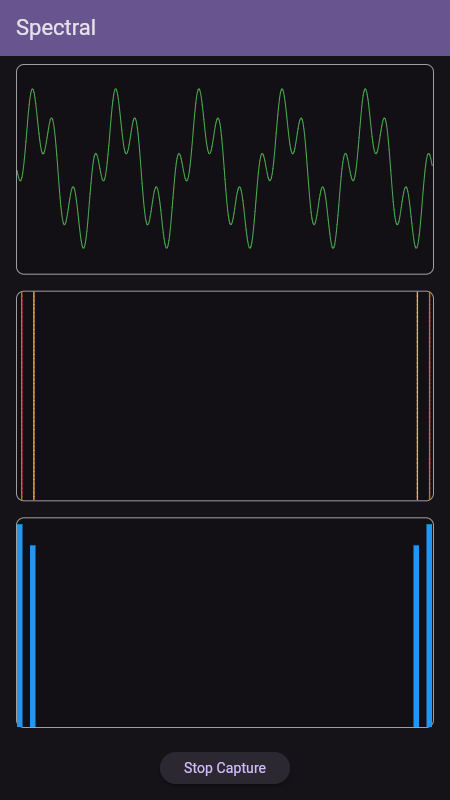
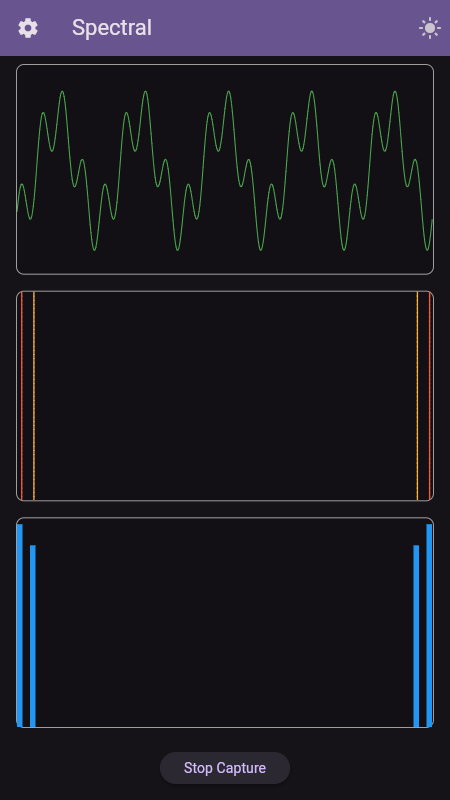
Complete Phase 2 MVP features: Waterfall, Themes, and Range Control
- Implement Waterfall spectrogram visualization.
- Add dynamic Light/Dark theme switching.
- Implement Gain and Sensitivity controls in a settings drawer.
- Improve LocalizationHelper for better widget testing.
- Update roadmap and documentation screenshots.
- Fix and expand widget tests.

Changed region(s): [[0.0311, 0.0938, 0.9644, 0.3125], [0.0311, 0.0, 0.3422, 0.0625], [0.9333, 0.0312, 0.9644, 0.0625]]

diff --git a/lib/main.dart b/lib/main.dart
@@ -15,8 +15,21 @@ void main() async {
   runApp(const SpectralApp());
 }
 
-class SpectralApp extends StatelessWidget {
+class SpectralApp extends StatefulWidget {
   const SpectralApp({super.key});
+
+  @override
+  State<SpectralApp> createState() => _SpectralAppState();
+}
+
+class _SpectralAppState extends State<SpectralApp> {
+  ThemeMode _themeMode = ThemeMode.dark;
+
+  void _toggleTheme() {
+    setState(() {
+      _themeMode = _themeMode == ThemeMode.dark ? ThemeMode.light : ThemeMode.dark;
+    });
+  }
 
   @override
   Widget build(BuildContext context) {
@@ -25,17 +38,32 @@ class SpectralApp extends StatelessWidget {
       theme: ThemeData(
         colorScheme: ColorScheme.fromSeed(
           seedColor: Colors.deepPurple,
+          brightness: Brightness.light,
+        ),
+        useMaterial3: true,
+      ),
+      darkTheme: ThemeData(
+        colorScheme: ColorScheme.fromSeed(
+          seedColor: Colors.deepPurple,
           brightness: Brightness.dark,
         ),
         useMaterial3: true,
       ),
-      home: const SpectralHomePage(),
+      themeMode: _themeMode,
+      home: SpectralHomePage(onToggleTheme: _toggleTheme, themeMode: _themeMode),
     );
   }
 }
 
 class SpectralHomePage extends StatefulWidget {
-  const SpectralHomePage({super.key});
+  final VoidCallback onToggleTheme;
+  final ThemeMode themeMode;
+
+  const SpectralHomePage({
+    super.key,
+    required this.onToggleTheme,
+    required this.themeMode,
+  });
 
   @override
   State<SpectralHomePage> createState() => _SpectralHomePageState();
@@ -53,6 +81,9 @@ class _SpectralHomePageState extends State<SpectralHomePage> {
   bool _isDemoMode = false;
   Timer? _demoTimer;
 
+  double _gain = 1.0;
+  double _sensitivity = 1.0;
+
   @override
   void initState() {
     super.initState();
@@ -64,11 +95,15 @@ class _SpectralHomePageState extends State<SpectralHomePage> {
     _audioSubscription = _audioService.audioDataStream.listen((data) {
       if (mounted) {
         setState(() {
-          _currentAudioData = data;
+          // Apply gain to audio data
+          _currentAudioData = Float64List.fromList(data.map((x) => x * _gain).toList());
+
           final fft = _fftService.processAudioData(data);
-          _currentFftData = fft;
-          if (fft.isNotEmpty) {
-            _fftHistory.insert(0, fft);
+          // Apply sensitivity to FFT data
+          final adjustedFft = fft.map((x) => x * _sensitivity).toList();
+          _currentFftData = adjustedFft;
+          if (adjustedFft.isNotEmpty) {
+            _fftHistory.insert(0, adjustedFft);
             if (_fftHistory.length > _maxHistory) {
               _fftHistory.removeLast();
             }
@@ -85,16 +120,17 @@ class _SpectralHomePageState extends State<SpectralHomePage> {
       final phase = DateTime.now().millisecondsSinceEpoch / 1000.0 * 2 * math.pi;
       for (var i = 0; i < 512; i++) {
         // Use a more complex signal for demo: two sines combined
-        samples[i] = 0.5 * math.sin(phase + (i / 512.0) * 10 * math.pi) +
-                     0.3 * math.sin(phase * 2 + (i / 512.0) * 40 * math.pi);
+        samples[i] = (0.5 * math.sin(phase + (i / 512.0) * 10 * math.pi) +
+                     0.3 * math.sin(phase * 2 + (i / 512.0) * 40 * math.pi)) * _gain;
       }
       if (mounted) {
         setState(() {
           _currentAudioData = samples;
           final fft = _fftService.processAudioData(samples);
-          _currentFftData = fft;
-          if (fft.isNotEmpty) {
-            _fftHistory.insert(0, fft);
+          final adjustedFft = fft.map((x) => x * _sensitivity).toList();
+          _currentFftData = adjustedFft;
+          if (adjustedFft.isNotEmpty) {
+            _fftHistory.insert(0, adjustedFft);
             if (_fftHistory.length > _maxHistory) {
               _fftHistory.removeLast();
             }
@@ -164,6 +200,69 @@ class _SpectralHomePageState extends State<SpectralHomePage> {
       appBar: AppBar(
         title: Text(LocalizationHelper.get('app.name')),
         backgroundColor: Theme.of(context).colorScheme.inversePrimary,
+        leading: Builder(
+          builder: (context) => IconButton(
+            icon: const Icon(Icons.settings),
+            onPressed: () => Scaffold.of(context).openDrawer(),
+            tooltip: LocalizationHelper.get('settings.title'),
+          ),
+        ),
+        actions: [
+          IconButton(
+            icon: Icon(widget.themeMode == ThemeMode.dark
+                ? Icons.light_mode
+                : Icons.dark_mode),
+            onPressed: widget.onToggleTheme,
+            tooltip: LocalizationHelper.get('settings.theme'),
+          ),
+        ],
+      ),
+      drawer: Drawer(
+        child: ListView(
+          padding: EdgeInsets.zero,
+          children: [
+            DrawerHeader(
+              decoration: BoxDecoration(
+                color: Theme.of(context).colorScheme.primary,
+              ),
+              child: Text(
+                LocalizationHelper.get('settings.title'),
+                style: const TextStyle(color: Colors.white, fontSize: 24),
+              ),
+            ),
+            Padding(
+              padding: const EdgeInsets.all(16.0),
+              child: Column(
+                crossAxisAlignment: CrossAxisAlignment.start,
+                children: [
+                  Text(LocalizationHelper.get('settings.gain')),
+                  Slider(
+                    value: _gain,
+                    min: 0.1,
+                    max: 5.0,
+                    onChanged: (value) {
+                      setState(() {
+                        _gain = value;
+                      });
+                    },
+                  ),
+                  const SizedBox(height: 16),
+                  Text(LocalizationHelper.get('settings.sensitivity')),
+                  Slider(
+                    value: _sensitivity,
+                    min: 0.1,
+                    max: 5.0,
+                    onChanged: (value) {
+                      setState(() {
+                        _sensitivity = value;
+                      });
+                    },
+                  ),
+                ],
+              ),
+            ),
+          ],
+        ),
       ),
       body: Center(
         child: Column(

diff --git a/test/app_test.dart b/test/app_test.dart
@@ -42,5 +42,8 @@ void main() {
 
     expect(find.text('Spectral'), findsOneWidget);
     expect(find.text('Start Capture'), findsOneWidget);
+
+    // Verify Settings icon is present
+    expect(find.byIcon(Icons.settings), findsOneWidget);
   });
 }

diff --git a/docs/roadmap.md b/docs/roadmap.md
@@ -13,9 +13,9 @@ This document outlines the strategic plan for Spectral, from MVP to future itera
 The goal of the MVP is to provide a functional and performant audio spectral visualizer.
 
 ### Core Visualizations
-- **Real-time Waveform:** High-performance rendering of time-domain audio data.
-- **FFT Bar Chart:** Frequency-domain visualization with configurable bins.
-- **Waterfall Display:** Rolling spectrogram to visualize frequency over time.
+- [x] **Real-time Waveform:** High-performance rendering of time-domain audio data.
+- [x] **FFT Bar Chart:** Frequency-domain visualization with configurable bins.
+- [x] **Waterfall Display:** Rolling spectrogram to visualize frequency over time.
 
 ### Configuration & UI
 - **Theme Support:** Initial implementation of Light and Dark modes.
